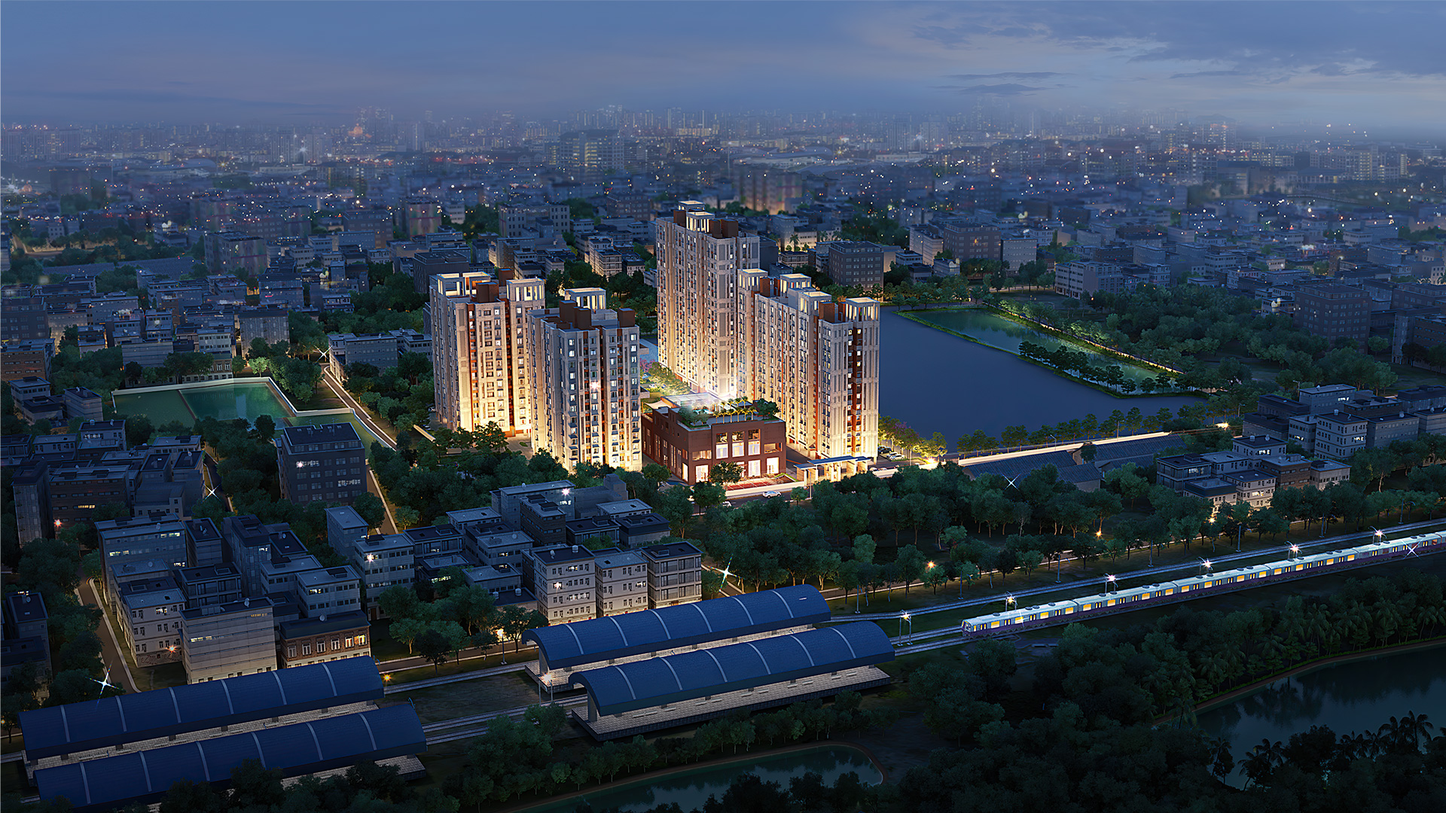
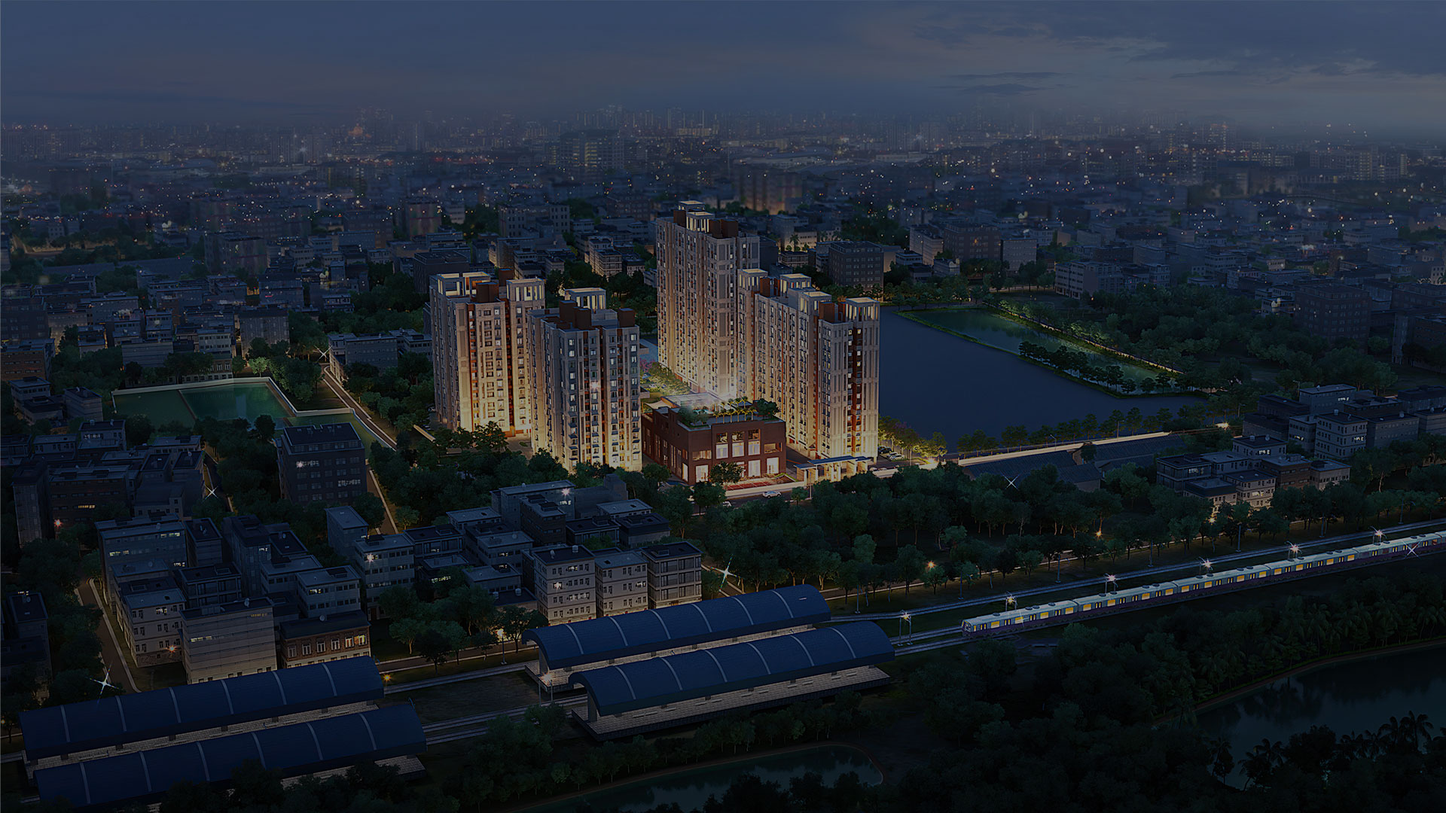
fix issue3

diff --git a/index.html b/index.html
@@ -185,14 +185,22 @@
     <section id="home">
       <div id="banner" data-aos="zoom-out" data-aos-duration="2000">
         <!-- <img src="./assets/images/home/Night-Aerial-View.jpg" alt="" /> -->
-        <div>
+        <div class="overlay">
           <h3
             class="text-center text-white"
             data-aos="fade-up"
             data-aos-duration="1000"
             data-aos-delay="1000"
           >
-            Best Real Estate
+            We create spaces with
+          </h3>
+          <h3
+            class="text-center text-white"
+            data-aos="fade-up"
+            data-aos-duration="1000"
+            data-aos-delay="1000"
+          >
+            imagination,
           </h3>
           <h3
             class="text-center text-white"
@@ -200,7 +208,7 @@
             data-aos-duration="1000"
             data-aos-delay="1500"
           >
-            Developers in Kolkata
+            tradition and love
           </h3>
         </div>
       </div>

diff --git a/css/main.css b/css/main.css
@@ -130,7 +130,7 @@ footer a:hover {
 
 #home #banner h3 {
   font-family: myFirstFont;
-  font-size: 90px;
+  font-size: 70px;
   font-weight: normal;
   font-style: normal;
   text-transform: uppercase;

diff --git a/scss/pages/_home.scss b/scss/pages/_home.scss
@@ -10,7 +10,7 @@
     }
     h3 {
       font-family: myFirstFont;
-      font-size: 90px;
+      font-size: 70px;
       font-weight: normal;
       font-style: normal;
       text-transform: uppercase;
